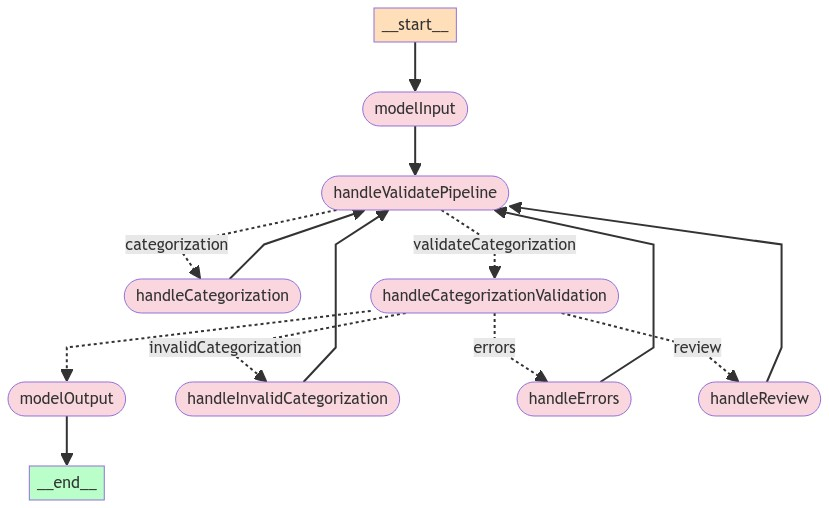
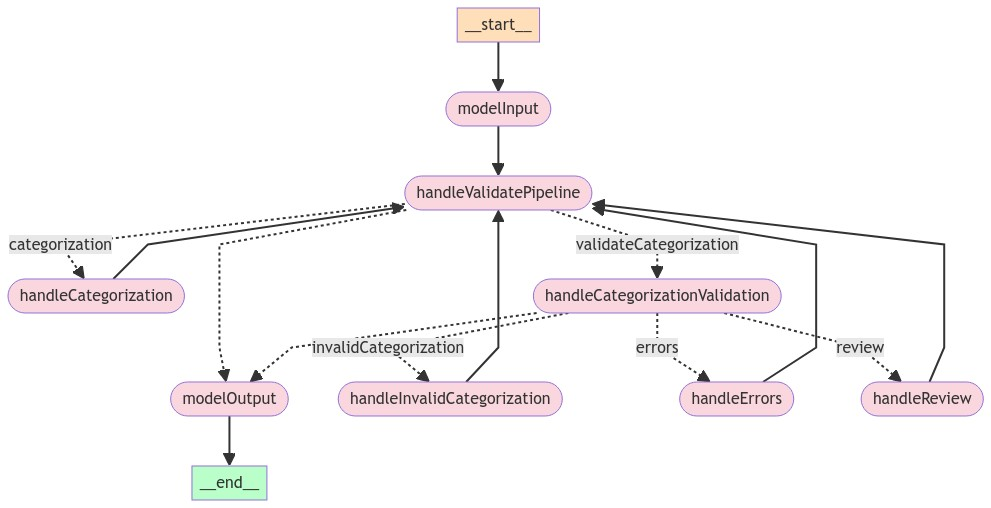
[Automatic Import] Add failsafe in case no good category/related mappings found (#192159)
## Summary

When uploading samples that might have only a handful of fields, there
is a possibilty in which either categorization or related can fail when
returning 0 updated mappings.

This PR updates the prompts slightly to prevent hallunication in case it
tries to "always produce at least one result", and updates the graph
routes to route it accordingly.

While not strictly necessary to add the same new state item in the
related graph at this point because pipeline validation runs AFTER the
initial related graph (compared to for example categorization), I wanted
to keep it consistent in all graphs. At some point the related graph is
going to need it anyway, so might as well implement it in a consistent
manner.

diff --git a/x-pack/plugins/integration_assistant/server/graphs/categorization/prompts.ts b/x-pack/plugins/integration_assistant/server/graphs/categorization/prompts.ts
@@ -47,6 +47,7 @@ Go through each of the pipeline results above step by step and do the following 
 4. Always check if the combination of event.category and event.type is common in the ecs context above.
 5. Always make sure the value for event.category and event.type is strictly from the allowed categories and allowed types in the ecs context above.
 6. The value argument for the append processor is an array of one or more of the allowed values for either event.type or event.category.
+7. If you can't find any relevant event.category and event.type combinations for a specific pipeline result or you are unsure then you can skip that result and move on to the next.
 
 You ALWAYS follow these guidelines when writing your response:
 <guidelines>
@@ -54,6 +55,7 @@ You ALWAYS follow these guidelines when writing your response:
 - If conditions should always use a ? character when accessing nested fields, in case the field might not always be available, see example processors above.
 - When an if condition is not needed the argument it should not be included in that specific object of your response.
 - When using a range based if condition like > 0, you first need to check that the field is not null, for example: ctx.somefield?.production != null && ctx.somefield?.production > 0
+- If no good match is found for any of the pipeline results, then respond with an empty array [] as valid JSON enclosed with 3 backticks (\`).
 - Do not respond with anything except the array of processors as valid JSON objects enclosed with 3 backticks (\`), see example response below.
 </guidelines>
 
@@ -110,6 +112,7 @@ You ALWAYS follow these guidelines when writing your response:
 - If conditions should always use a ? character when accessing nested fields, in case the field might not always be available, see example processors above.
 - When an if condition is not needed the argument should not be used for the processor object.
 - If updates are needed you respond with the initially provided array of processors.
+- If an update removes the last remaining processor object you respond with an empty array [] as valid JSON enclosed with 3 backticks (\`).
 - Do not respond with anything except updated array of processors as a valid JSON object enclosed with 3 backticks (\`), see example response below.
 </guidelines>
 
@@ -155,6 +158,7 @@ You ALWAYS follow these guidelines when writing your response:
 <guidelines>
 - If the error complains about having event.type or event.category not in the allowed values , fix the corresponding append processors to use the allowed values mentioned in the error.
 - If the error is about event.type not compatible with any event.category, please refer to the 'compatible_types' in the context to fix the corresponding append processors to use valid combination of event.type and event.category
+- If resolving the validation removes the last remaining processor object, respond with an empty array [] as valid JSON enclosed with 3 backticks (\`).
 - Do not respond with anything except the complete updated array of processors as a valid JSON object enclosed with 3 backticks (\`), see example response below.
 </guidelines>
 
@@ -191,7 +195,8 @@ Here is some context that you can reference for your task, read it carefully as 
 Follow these steps to help resolve the current ingest pipeline issues:
 1. Try to fix all related errors before responding.
 2. Apply all fixes to the provided array of current append processors.
-3. If you do not know how to fix an error, then continue to the next and return the complete updated array of current append processors.
+3. If you do not know how to fix an error or are unsure, remove the object related to the error, then continue to the next and return the complete updated array of current append processors.
+4. It is okay to remove the last processor object if it is causing the error or you are unsure about how to resolve it.
 
 You ALWAYS follow these guidelines when writing your response:
 <guidelines>
@@ -199,6 +204,7 @@ You ALWAYS follow these guidelines when writing your response:
 - If conditions should never be in a format like "if": "true". If it exist in the current array of append processors, remove only the redundant if condition.
 - If the error complains that it is a null point exception, always ensure the if conditions uses a ? when accessing nested fields. For example ctx.field1?.nestedfield1?.nestedfield2.
 - If the error complains about having values not in the list of allowed values , fix the corresponding append processors to use the allowed values as mentioned in the error.
+- If resolving the error removes the last remaining processor object, respond with an empty array [] as valid JSON enclosed with 3 backticks (\`).
 - Do not respond with anything except the complete updated array of processors as a valid JSON object enclosed with 3 backticks (\`), see example response below.
 </guidelines>
 

diff --git a/x-pack/plugins/integration_assistant/server/graphs/categorization/graph.ts b/x-pack/plugins/integration_assistant/server/graphs/categorization/graph.ts
@@ -6,17 +6,17 @@
  */
 
 import type { StateGraphArgs } from '@langchain/langgraph';
-import { StateGraph, END, START } from '@langchain/langgraph';
+import { END, START, StateGraph } from '@langchain/langgraph';
 import type { CategorizationState } from '../../types';
-import type { CategorizationGraphParams, CategorizationBaseNodeParams } from './types';
-import { prefixSamples, formatSamples } from '../../util/samples';
-import { handleCategorization } from './categorization';
 import { handleValidatePipeline } from '../../util/graph';
-import { handleCategorizationValidation } from './validate';
-import { handleInvalidCategorization } from './invalid';
-import { handleErrors } from './errors';
-import { handleReview } from './review';
+import { formatSamples, prefixSamples } from '../../util/samples';
+import { handleCategorization } from './categorization';
 import { CATEGORIZATION_EXAMPLE_ANSWER, ECS_CATEGORIES, ECS_TYPES } from './constants';
+import { handleErrors } from './errors';
+import { handleInvalidCategorization } from './invalid';
+import { handleReview } from './review';
+import type { CategorizationBaseNodeParams, CategorizationGraphParams } from './types';
+import { handleCategorizationValidation } from './validate';
 
 const graphState: StateGraphArgs<CategorizationState>['channels'] = {
   lastExecutedChain: {
@@ -60,6 +60,10 @@ const graphState: StateGraphArgs<CategorizationState>['channels'] = {
     default: () => false,
   },
   reviewed: {
+    value: (x: boolean, y?: boolean) => y ?? x,
+    default: () => false,
+  },
+  hasTriedOnce: {
     value: (x: boolean, y?: boolean) => y ?? x,
     default: () => false,
   },
@@ -131,12 +135,20 @@ function modelOutput({ state }: CategorizationBaseNodeParams): Partial<Categoriz
 
 function validationRouter({ state }: CategorizationBaseNodeParams): string {
   if (Object.keys(state.currentProcessors).length === 0) {
+    if (state.hasTriedOnce || state.reviewed) {
+      return 'modelOutput';
+    }
     return 'categorization';
   }
   return 'validateCategorization';
 }
 
 function chainRouter({ state }: CategorizationBaseNodeParams): string {
+  if (Object.keys(state.currentProcessors).length === 0) {
+    if (state.hasTriedOnce || state.reviewed) {
+      return 'modelOutput';
+    }
+  }
   if (Object.keys(state.errors).length > 0) {
     return 'errors';
   }
@@ -184,6 +196,7 @@ export async function getCategorizationGraph({ client, model }: CategorizationGr
       'handleValidatePipeline',
       (state: CategorizationState) => validationRouter({ state }),
       {
+        modelOutput: 'modelOutput',
         categorization: 'handleCategorization',
         validateCategorization: 'handleCategorizationValidation',
       }

diff --git a/x-pack/plugins/integration_assistant/server/graphs/related/graph.ts b/x-pack/plugins/integration_assistant/server/graphs/related/graph.ts
@@ -6,15 +6,15 @@
  */
 
 import type { StateGraphArgs } from '@langchain/langgraph';
-import { StateGraph, END, START } from '@langchain/langgraph';
+import { END, START, StateGraph } from '@langchain/langgraph';
 import type { RelatedState } from '../../types';
-import type { RelatedGraphParams, RelatedBaseNodeParams } from './types';
-import { prefixSamples, formatSamples } from '../../util/samples';
 import { handleValidatePipeline } from '../../util/graph';
-import { handleRelated } from './related';
-import { handleErrors } from './errors';
-import { handleReview } from './review';
+import { formatSamples, prefixSamples } from '../../util/samples';
 import { RELATED_ECS_FIELDS, RELATED_EXAMPLE_ANSWER } from './constants';
+import { handleErrors } from './errors';
+import { handleRelated } from './related';
+import { handleReview } from './review';
+import type { RelatedBaseNodeParams, RelatedGraphParams } from './types';
 
 const graphState: StateGraphArgs<RelatedState>['channels'] = {
   lastExecutedChain: {
@@ -32,6 +32,10 @@ const graphState: StateGraphArgs<RelatedState>['channels'] = {
   formattedSamples: {
     value: (x: string, y?: string) => y ?? x,
     default: () => '',
+  },
+  hasTriedOnce: {
+    value: (x: boolean, y?: boolean) => y ?? x,
+    default: () => false,
   },
   ecs: {
     value: (x: string, y?: string) => y ?? x,
@@ -123,6 +127,9 @@ function inputRouter({ state }: RelatedBaseNodeParams): string {
 
 function chainRouter({ state }: RelatedBaseNodeParams): string {
   if (Object.keys(state.currentProcessors).length === 0) {
+    if (state.hasTriedOnce || state.reviewed) {
+      return 'modelOutput';
+    }
     return 'related';
   }
   if (Object.keys(state.errors).length > 0) {

diff --git a/x-pack/plugins/integration_assistant/server/graphs/categorization/categorization.ts b/x-pack/plugins/integration_assistant/server/graphs/categorization/categorization.ts
@@ -6,11 +6,11 @@
  */
 import { JsonOutputParser } from '@langchain/core/output_parsers';
 import type { Pipeline } from '../../../common';
-import type { SimplifiedProcessors, SimplifiedProcessor, CategorizationState } from '../../types';
-import type { CategorizationNodeParams } from './types';
+import type { CategorizationState, SimplifiedProcessor, SimplifiedProcessors } from '../../types';
 import { combineProcessors } from '../../util/processors';
-import { CATEGORIZATION_MAIN_PROMPT } from './prompts';
 import { CATEGORIZATION_EXAMPLE_PROCESSORS } from './constants';
+import { CATEGORIZATION_MAIN_PROMPT } from './prompts';
+import type { CategorizationNodeParams } from './types';
 
 export async function handleCategorization({
   state,
@@ -36,6 +36,7 @@ export async function handleCategorization({
   return {
     currentPipeline,
     currentProcessors,
+    hasTriedOnce: true,
     lastExecutedChain: 'categorization',
   };
 }

diff --git a/x-pack/plugins/integration_assistant/server/graphs/related/related.ts b/x-pack/plugins/integration_assistant/server/graphs/related/related.ts
@@ -7,10 +7,10 @@
 
 import { JsonOutputParser } from '@langchain/core/output_parsers';
 import type { Pipeline } from '../../../common';
-import type { RelatedState, SimplifiedProcessors, SimplifiedProcessor } from '../../types';
-import type { RelatedNodeParams } from './types';
+import type { RelatedState, SimplifiedProcessor, SimplifiedProcessors } from '../../types';
 import { combineProcessors } from '../../util/processors';
 import { RELATED_MAIN_PROMPT } from './prompts';
+import type { RelatedNodeParams } from './types';
 
 export async function handleRelated({
   state,
@@ -37,6 +37,7 @@ export async function handleRelated({
     currentPipeline,
     currentProcessors,
     reviewed: false,
+    hasTriedOnce: true,
     lastExecutedChain: 'related',
   };
 }

diff --git a/x-pack/plugins/integration_assistant/server/types.ts b/x-pack/plugins/integration_assistant/server/types.ts
@@ -54,6 +54,7 @@ export interface CategorizationState {
   pipelineResults: object[];
   finalized: boolean;
   reviewed: boolean;
+  hasTriedOnce: boolean;
   currentPipeline: object;
   currentProcessors: object[];
   invalidCategorization: object[];
@@ -78,6 +79,7 @@ export interface EcsMappingState {
   finalMapping: object;
   chunkMapping: object;
   useFinalMapping: boolean;
+  hasTriedOnce: boolean;
   currentPipeline: object;
   duplicateFields: string[];
   missingKeys: string[];
@@ -110,6 +112,7 @@ export interface RelatedState {
   pipelineResults: object[];
   finalized: boolean;
   reviewed: boolean;
+  hasTriedOnce: boolean;
   currentPipeline: object;
   currentProcessors: object[];
   initialPipeline: object;

diff --git a/x-pack/plugins/integration_assistant/server/graphs/ecs/mapping.ts b/x-pack/plugins/integration_assistant/server/graphs/ecs/mapping.ts
@@ -6,9 +6,9 @@
  */
 
 import { JsonOutputParser } from '@langchain/core/output_parsers';
-import type { EcsNodeParams } from './types';
 import type { EcsMappingState } from '../../types';
 import { ECS_MAIN_PROMPT } from './prompts';
+import type { EcsNodeParams } from './types';
 
 export async function handleEcsMapping({
   state,
@@ -24,5 +24,5 @@ export async function handleEcsMapping({
     data_stream_name: state.dataStreamName,
     ex_answer: state.exAnswer,
   });
-  return { currentMapping, lastExecutedChain: 'ecsMapping' };
+  return { currentMapping, hasTriedOnce: true, lastExecutedChain: 'ecsMapping' };
 }

diff --git a/x-pack/plugins/integration_assistant/server/graphs/ecs/pipeline.ts b/x-pack/plugins/integration_assistant/server/graphs/ecs/pipeline.ts
@@ -135,6 +135,9 @@ function needsTypeConversion(sample: unknown, expected: string): boolean {
 }
 
 function generateProcessors(ecsMapping: object, samples: object, basePath: string = ''): object[] {
+  if (Object.keys(ecsMapping).length === 0) {
+    return [];
+  }
   const ecsTypes = ECS_TYPES;
   const valueFieldKeys = new Set(['target', 'confidence', 'date_formats', 'type']);
   const results: object[] = [];

diff --git a/x-pack/plugins/integration_assistant/server/graphs/ecs/state.ts b/x-pack/plugins/integration_assistant/server/graphs/ecs/state.ts
@@ -70,6 +70,10 @@ export const graphState: StateGraphArgs<EcsMappingState>['channels'] = {
     value: (x: boolean, y?: boolean) => y ?? x,
     default: () => false,
   },
+  hasTriedOnce: {
+    value: (x: boolean, y?: boolean) => y ?? x,
+    default: () => false,
+  },
   currentPipeline: {
     value: (x: object, y?: object) => y ?? x,
     default: () => ({}),

diff --git a/x-pack/plugins/integration_assistant/server/graphs/ecs/graph.ts b/x-pack/plugins/integration_assistant/server/graphs/ecs/graph.ts
@@ -34,6 +34,9 @@ const handleCreateMappingChunks = async ({ state }: EcsBaseNodeParams) => {
 };
 
 function chainRouter({ state }: EcsBaseNodeParams): string {
+  if (Object.keys(state.finalMapping).length === 0 && state.hasTriedOnce) {
+    return 'modelOutput';
+  }
   if (Object.keys(state.duplicateFields).length > 0) {
     return 'duplicateFields';
   }

diff --git a/x-pack/plugins/integration_assistant/__jest__/fixtures/categorization.ts b/x-pack/plugins/integration_assistant/__jest__/fixtures/categorization.ts
@@ -173,6 +173,7 @@ export const categorizationTestState = {
   previousInvalidCategorization: 'testinvalid',
   pipelineResults: [{ test: 'testresult' }],
   finalized: false,
+  hasTriedOnce: false,
   reviewed: false,
   currentPipeline: { test: 'testpipeline' },
   currentProcessors: [

diff --git a/x-pack/plugins/integration_assistant/__jest__/fixtures/ecs_mapping.ts b/x-pack/plugins/integration_assistant/__jest__/fixtures/ecs_mapping.ts
@@ -454,6 +454,7 @@ export const ecsTestState = {
   ecsVersion: 'testversion',
   chunkMapping: { test1: 'test1' },
   useFinalMapping: false,
+  hasTriedOnce: false,
   currentMapping: { test1: 'test1' },
   lastExecutedChain: 'testchain',
   rawSamples: ['{"test1": "test1"}'],
